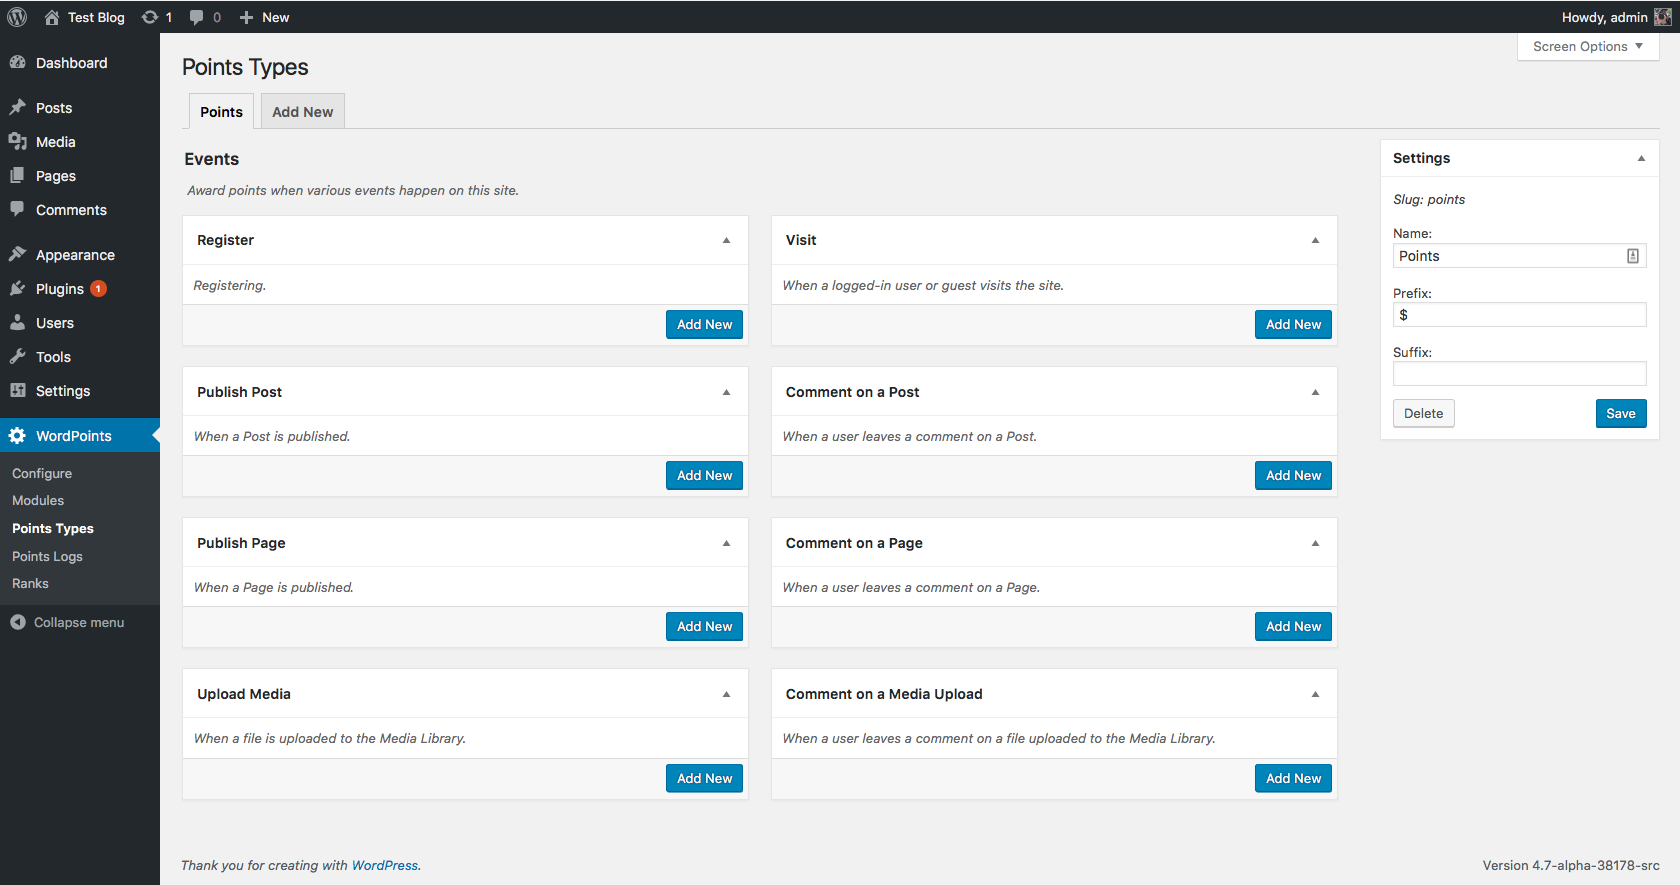
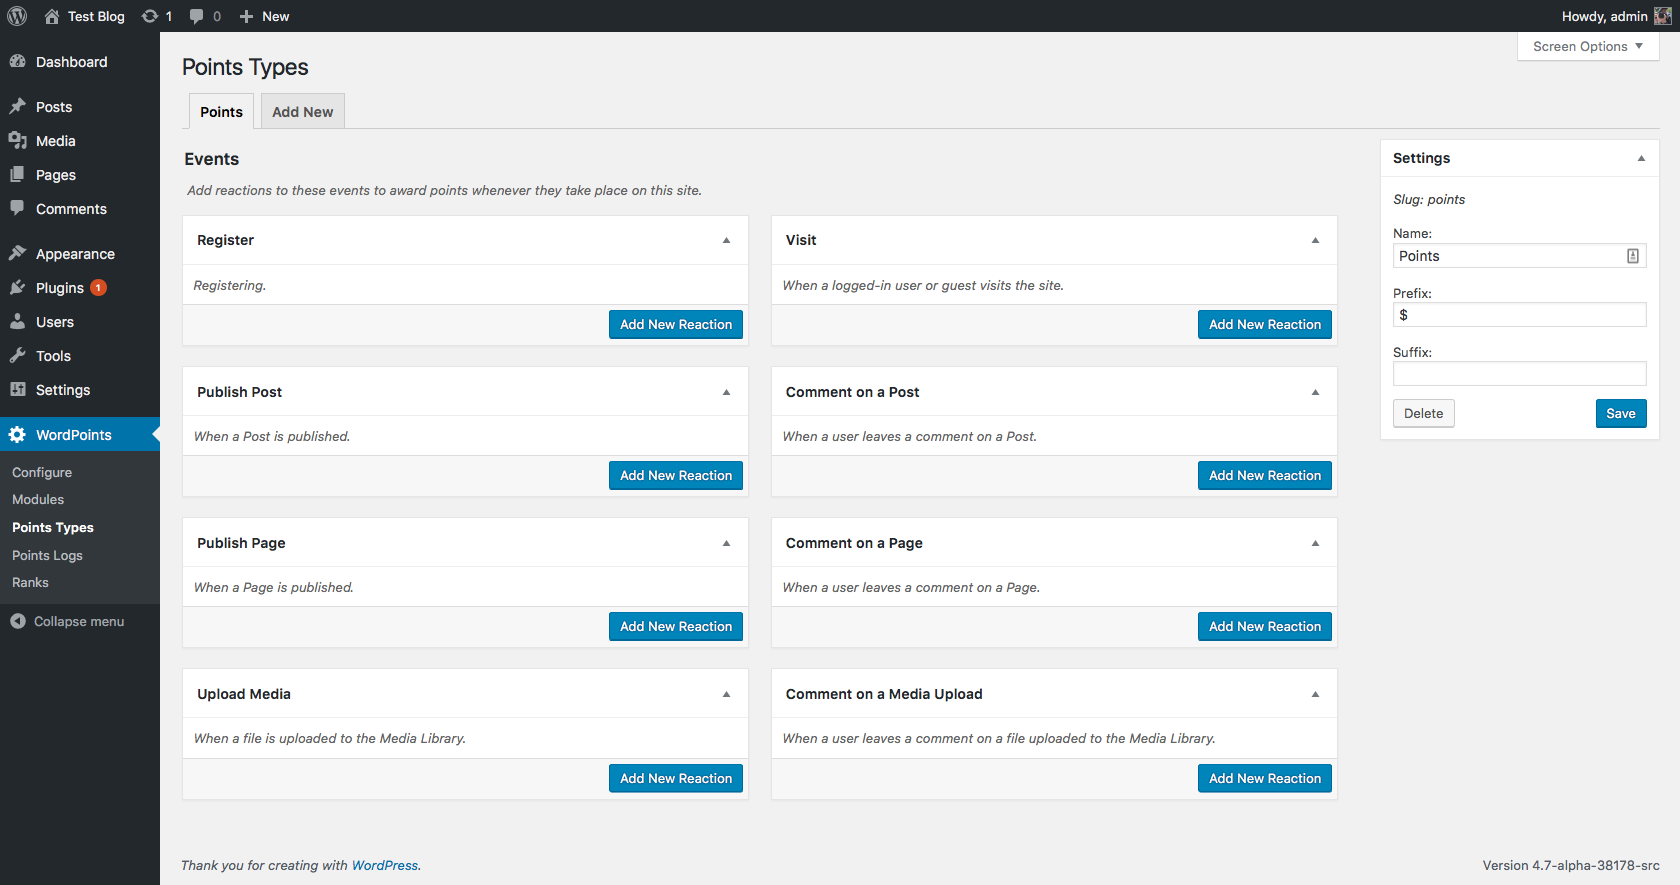
Better inline "help" for the Points Types screen
And update the screenshot of this screen.

See #407, #406

diff --git a/src/components/points/admin/classes/screen/points/types.php b/src/components/points/admin/classes/screen/points/types.php
@@ -441,7 +441,7 @@ class WordPoints_Points_Admin_Screen_Points_Types extends WordPoints_Admin_Scree
 
 			<div class="controls">
 				<button type="button" class="button-primary add-reaction">
-					<?php esc_html_e( 'Add New', 'wordpoints' ); ?>
+					<?php esc_html_e( 'Add New Reaction', 'wordpoints' ); ?>
 				</button>
 			</div>
 		</div>
@@ -703,10 +703,10 @@ class WordPoints_Points_Admin_Screen_Points_Types extends WordPoints_Admin_Scree
 
 		if ( is_network_admin() ) {
 			$title = __( 'Network Events', 'wordpoints' );
-			$description = __( 'Award points when various events happen on this network.', 'wordpoints' );
+			$description = __( 'Add reactions to these events to award points whenever they take place on this network.', 'wordpoints' );
 		} else {
 			$title = __( 'Events', 'wordpoints' );
-			$description = __( 'Award points when various events happen on this site.', 'wordpoints' );
+			$description = __( 'Add reactions to these events to award points whenever they take place on this site.', 'wordpoints' );
 		}
 
 		$points_type = wordpoints_get_points_type( $this->current_points_type );

diff --git a/tests/codeception/acceptance/points/reaction/cancel-create.cept.php b/tests/codeception/acceptance/points/reaction/cancel-create.cept.php
@@ -11,7 +11,7 @@ $I = new AcceptanceTester( $scenario );
 $I->wantTo( 'Create a points reaction, but change my mind' );
 $I->hadCreatedAPointsType();
 $I->amLoggedInAsAdminOnPage( 'wp-admin/admin.php?page=wordpoints_points_types' );
-$I->click( 'Add New', '#points-user_register .controls' );
+$I->click( 'Add New Reaction', '#points-user_register .controls' );
 $I->waitForNewReaction();
 $I->seeElement( '#points-user_register .add-reaction[disabled]' );
 $I->fillField( 'description', 'Registering.' );

diff --git a/tests/codeception/acceptance/points/reaction/create.cept.php b/tests/codeception/acceptance/points/reaction/create.cept.php
@@ -11,7 +11,7 @@ $I = new AcceptanceTester( $scenario );
 $I->wantTo( 'Create a points reaction' );
 $I->hadCreatedAPointsType();
 $I->amLoggedInAsAdminOnPage( 'wp-admin/admin.php?page=wordpoints_points_types' );
-$I->click( 'Add New', '#points-user_register' );
+$I->click( 'Add New Reaction', '#points-user_register' );
 $I->waitForNewReaction();
 $I->seeElement( '#points-user_register .add-reaction[disabled]' );
 $I->fillField( 'description', 'Registering.' );
